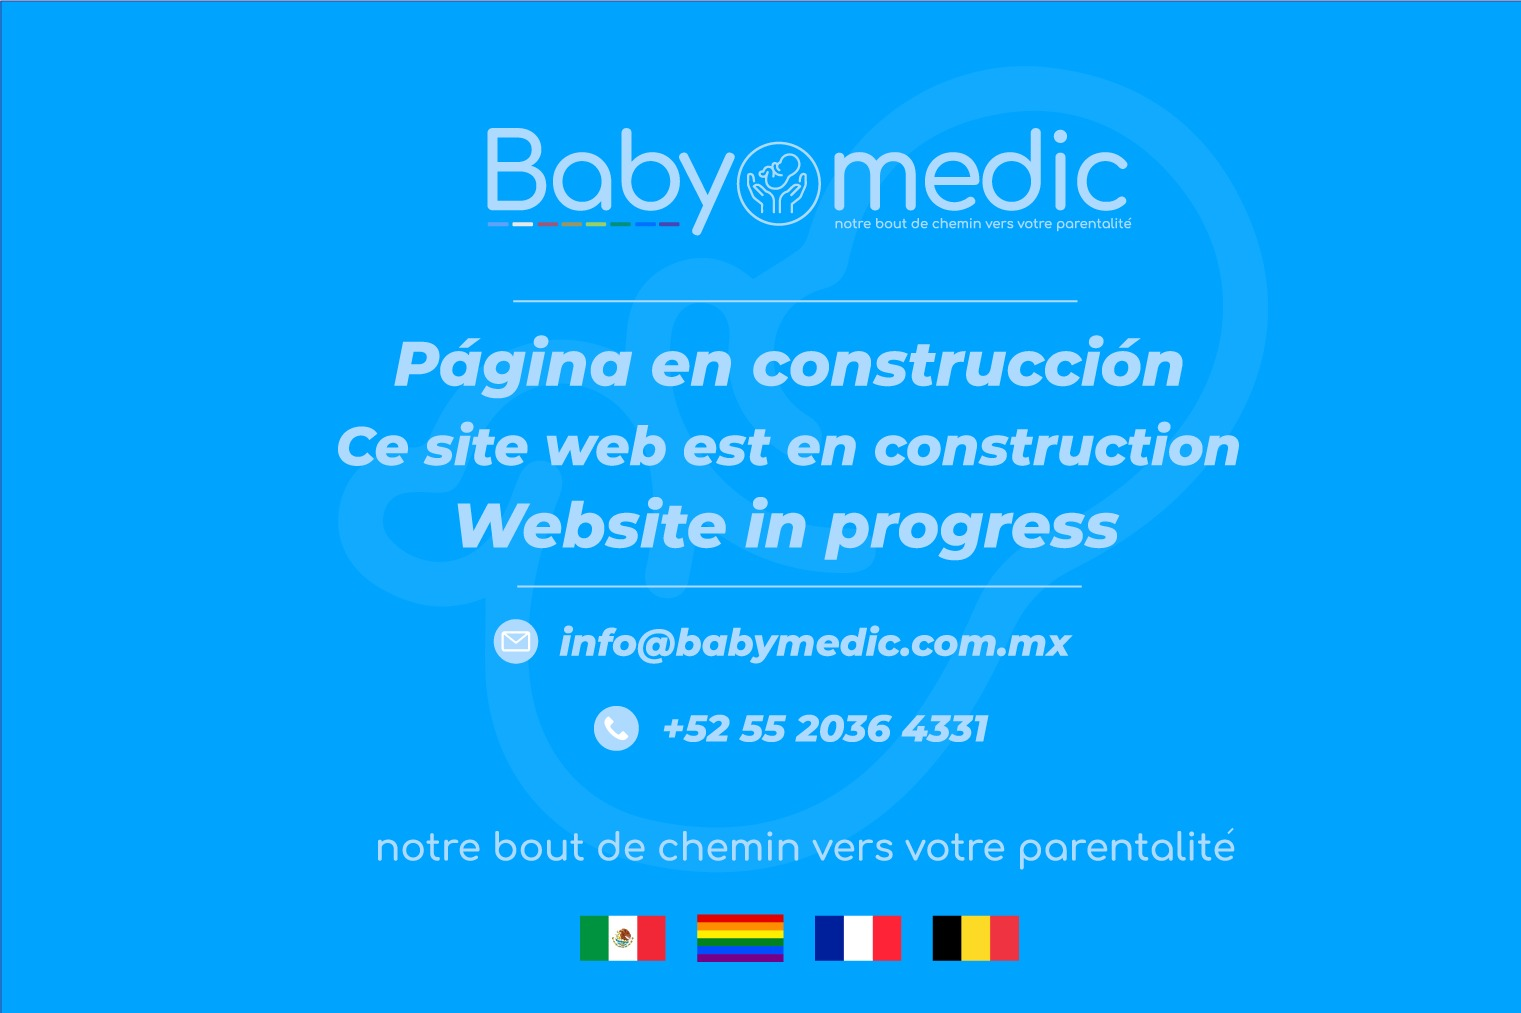
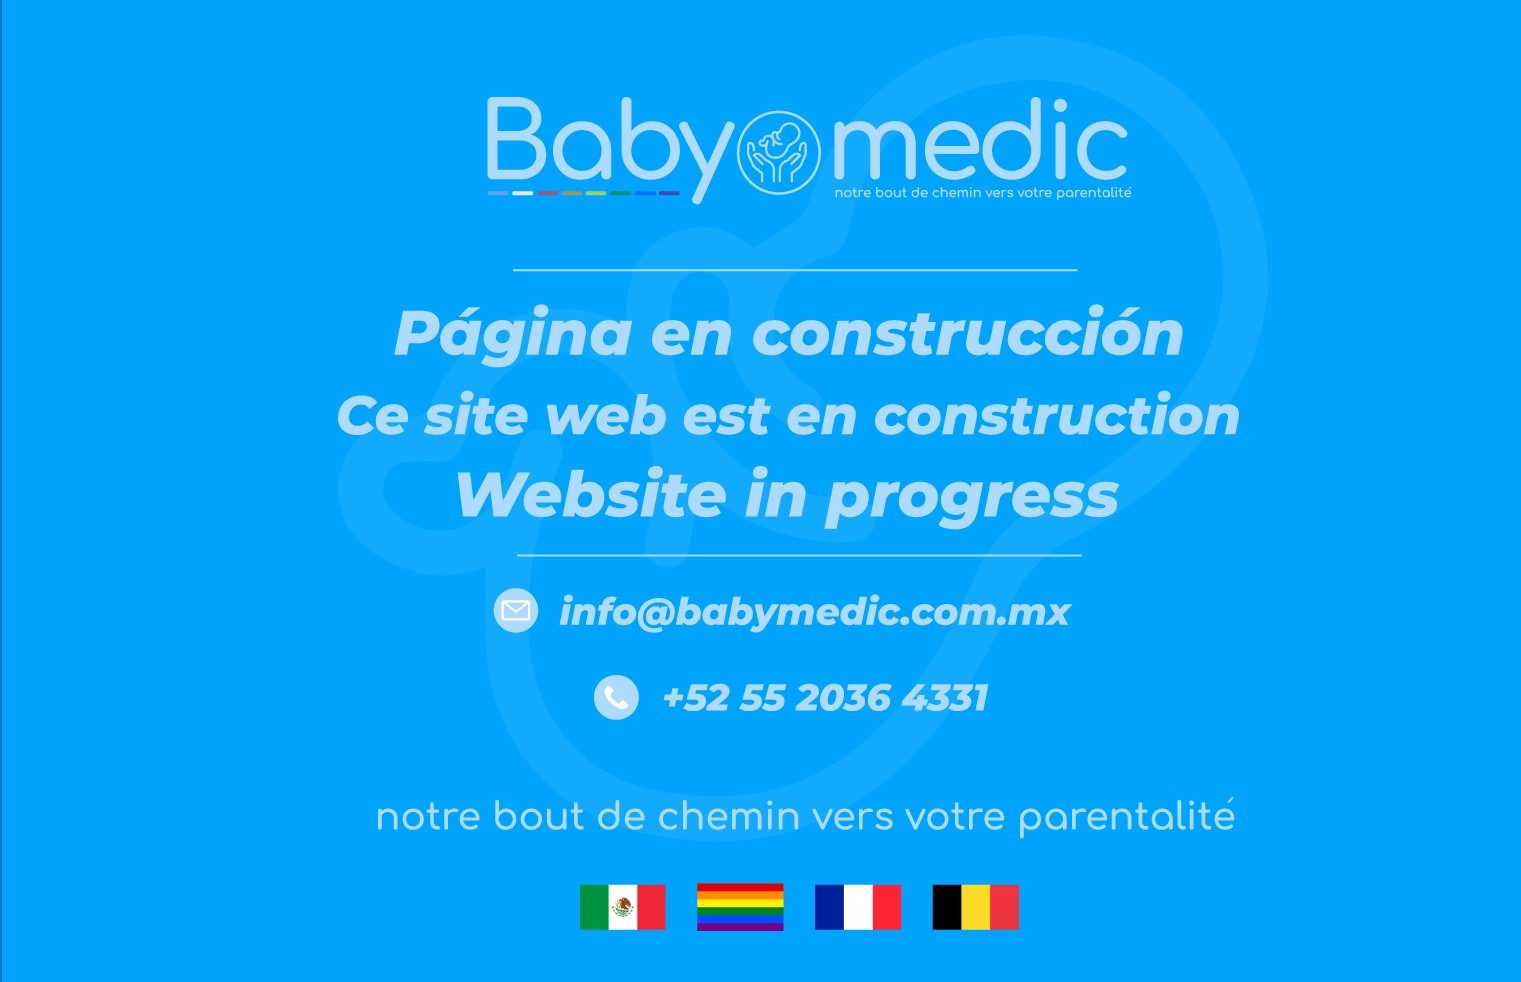
image changed

diff --git a/index.html b/index.html
@@ -1,12 +1,20 @@
 <!DOCTYPE html>
 <html lang="en">
+
 <head>
     <meta charset="UTF-8">
     <meta name="viewport" content="width=device-width, initial-scale=1.0">
     <title>Coming soon</title>
     <link rel="stylesheet" href="style.css">
 </head>
+
 <body>
-    <img src="comingSoon.jpeg" alt="coming soon">
+    <!-- <img src="" alt="coming soon"> -->
+    <picture>
+        <source media="(max-width:500px)" srcset="imagen1.png">
+        <!-- <source media="(min-width:1100px)" srcset="rafa.png"> -->
+        <img src="comingSoon.jpeg" alt="coming soon">
+    </picture>
 </body>
+
 </html>

diff --git a/style.css b/style.css
@@ -1,13 +1,18 @@
 body {
     width: 100%;
     margin: 0;
+    background-color: #00A4FF;
 }
 
 img {
     width: 100%;
     height: 70vw;
-    object-fit: cover;
+    object-fit: contain;
+}
 
+source {
+    width: 100vw;
+    height: auto;
 }
 
 @media (max-width: 1100px) {
